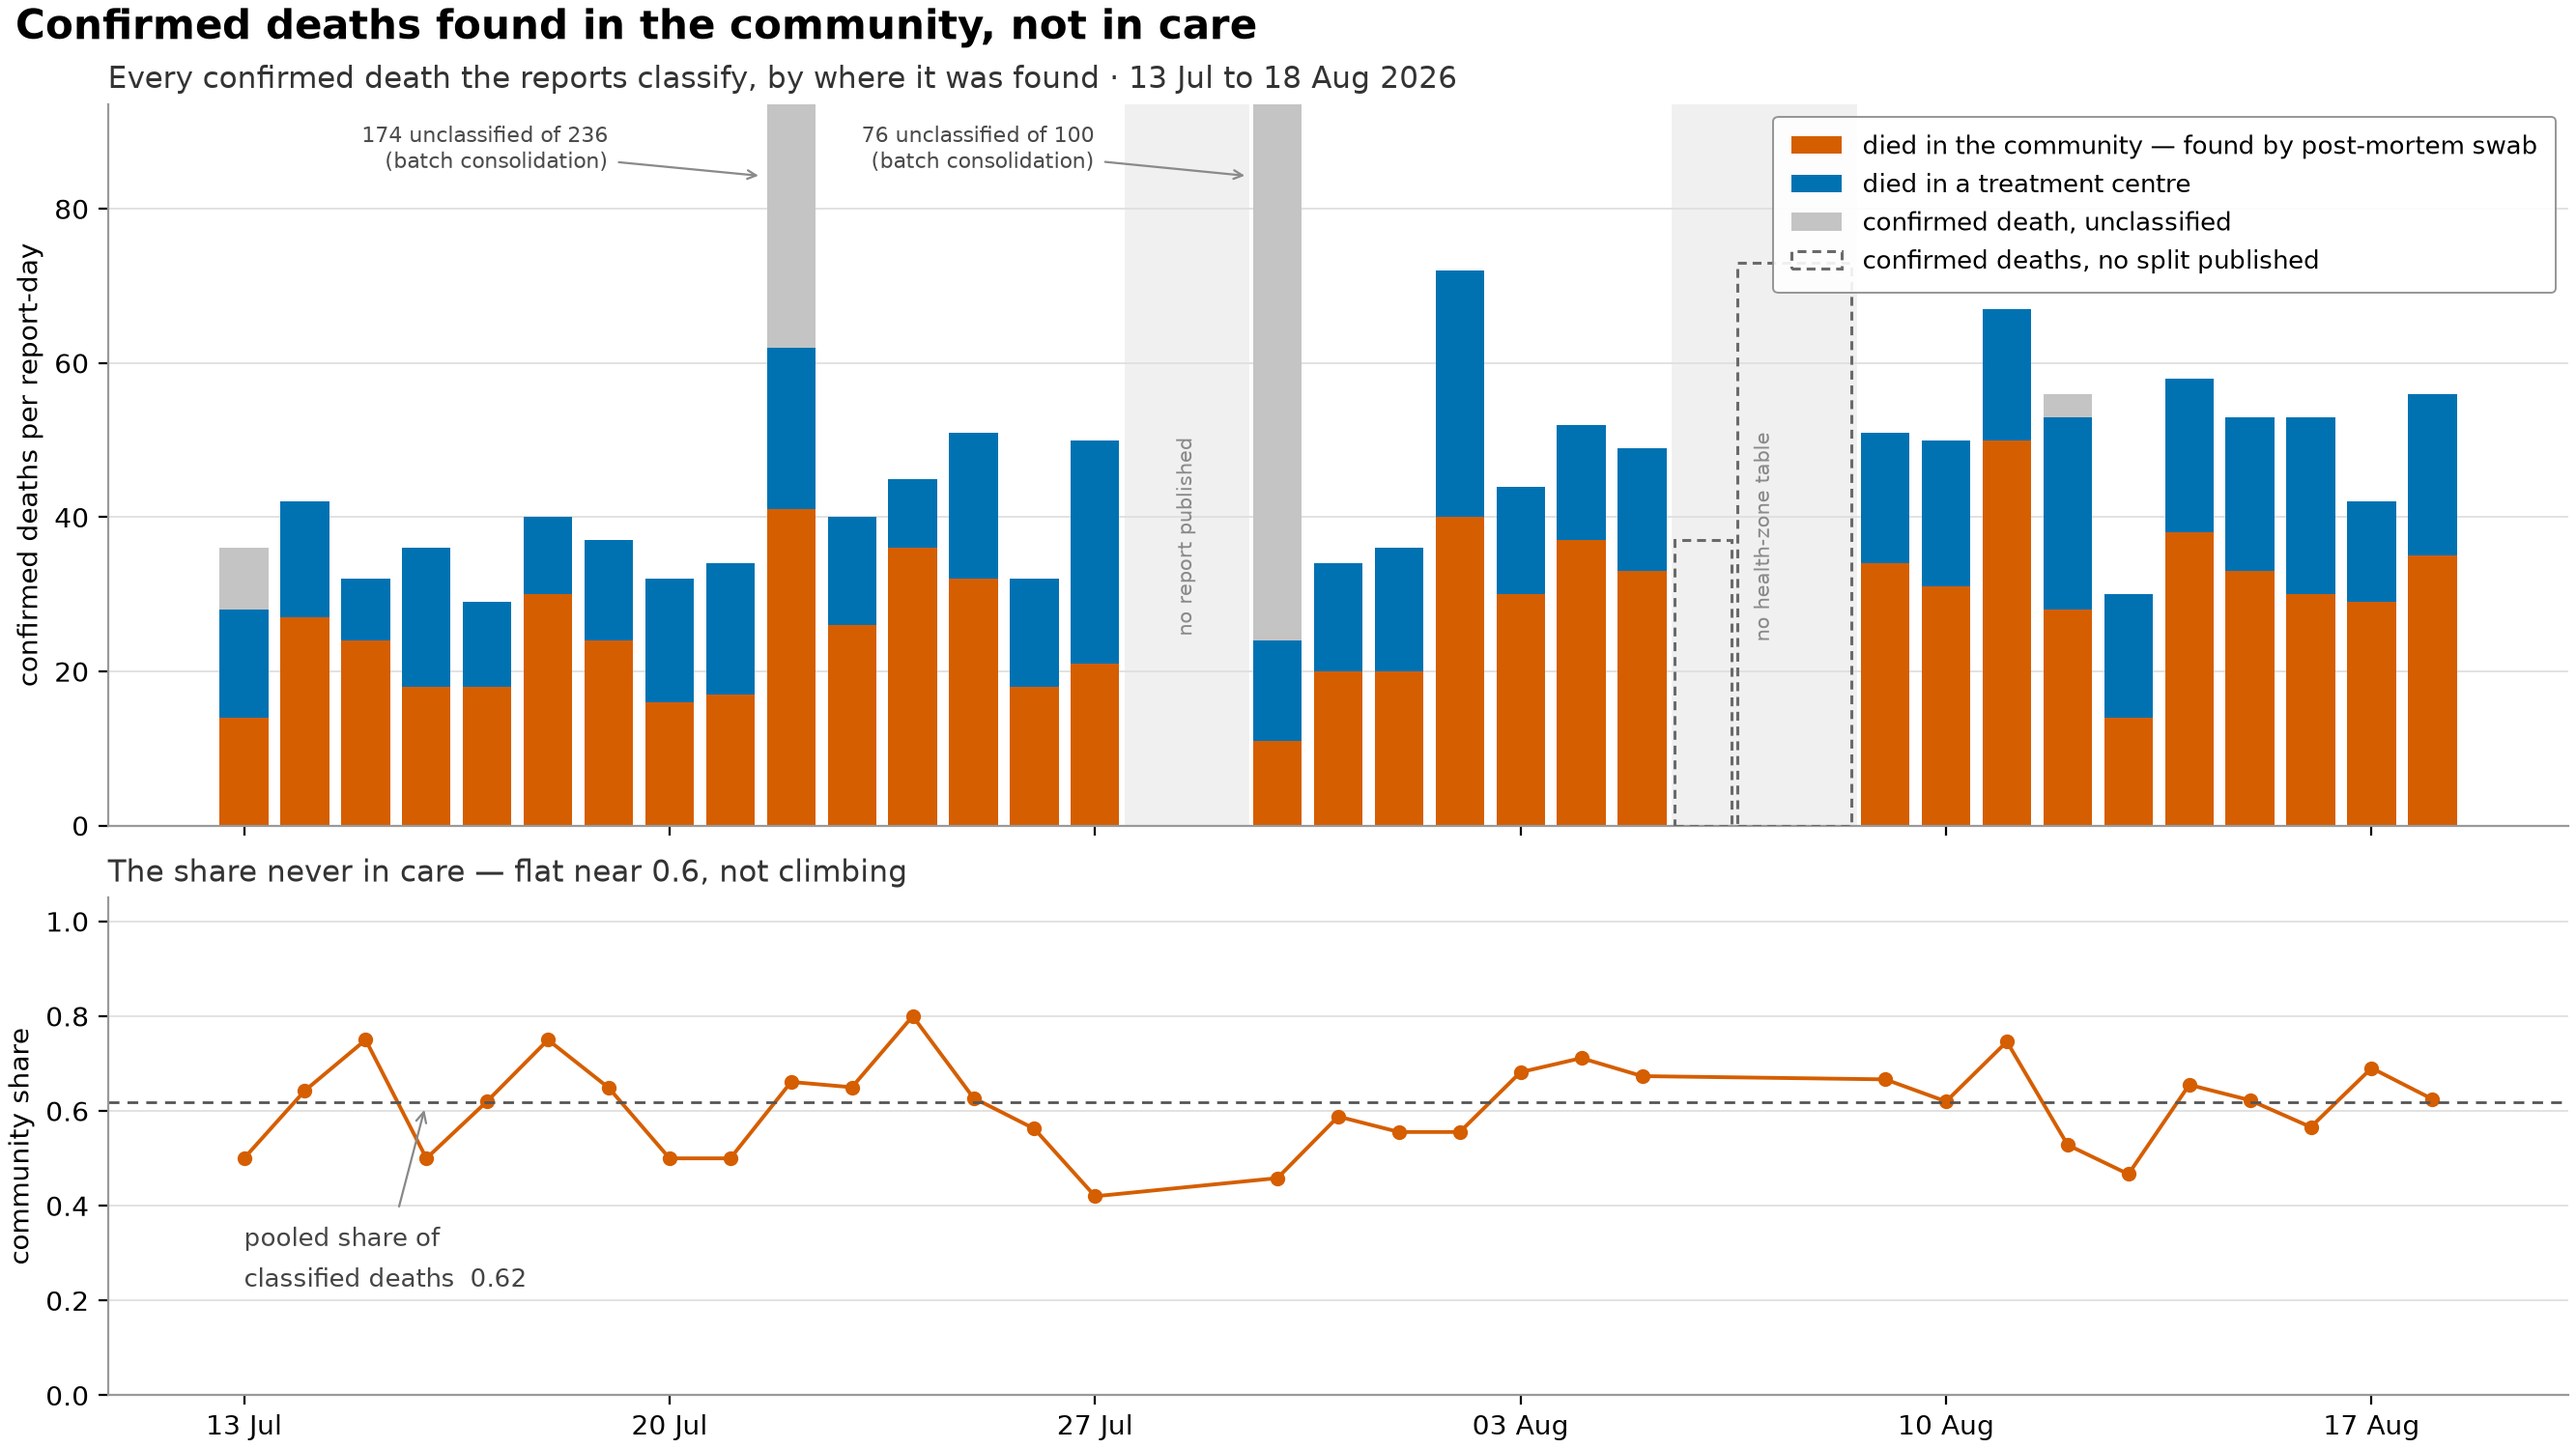
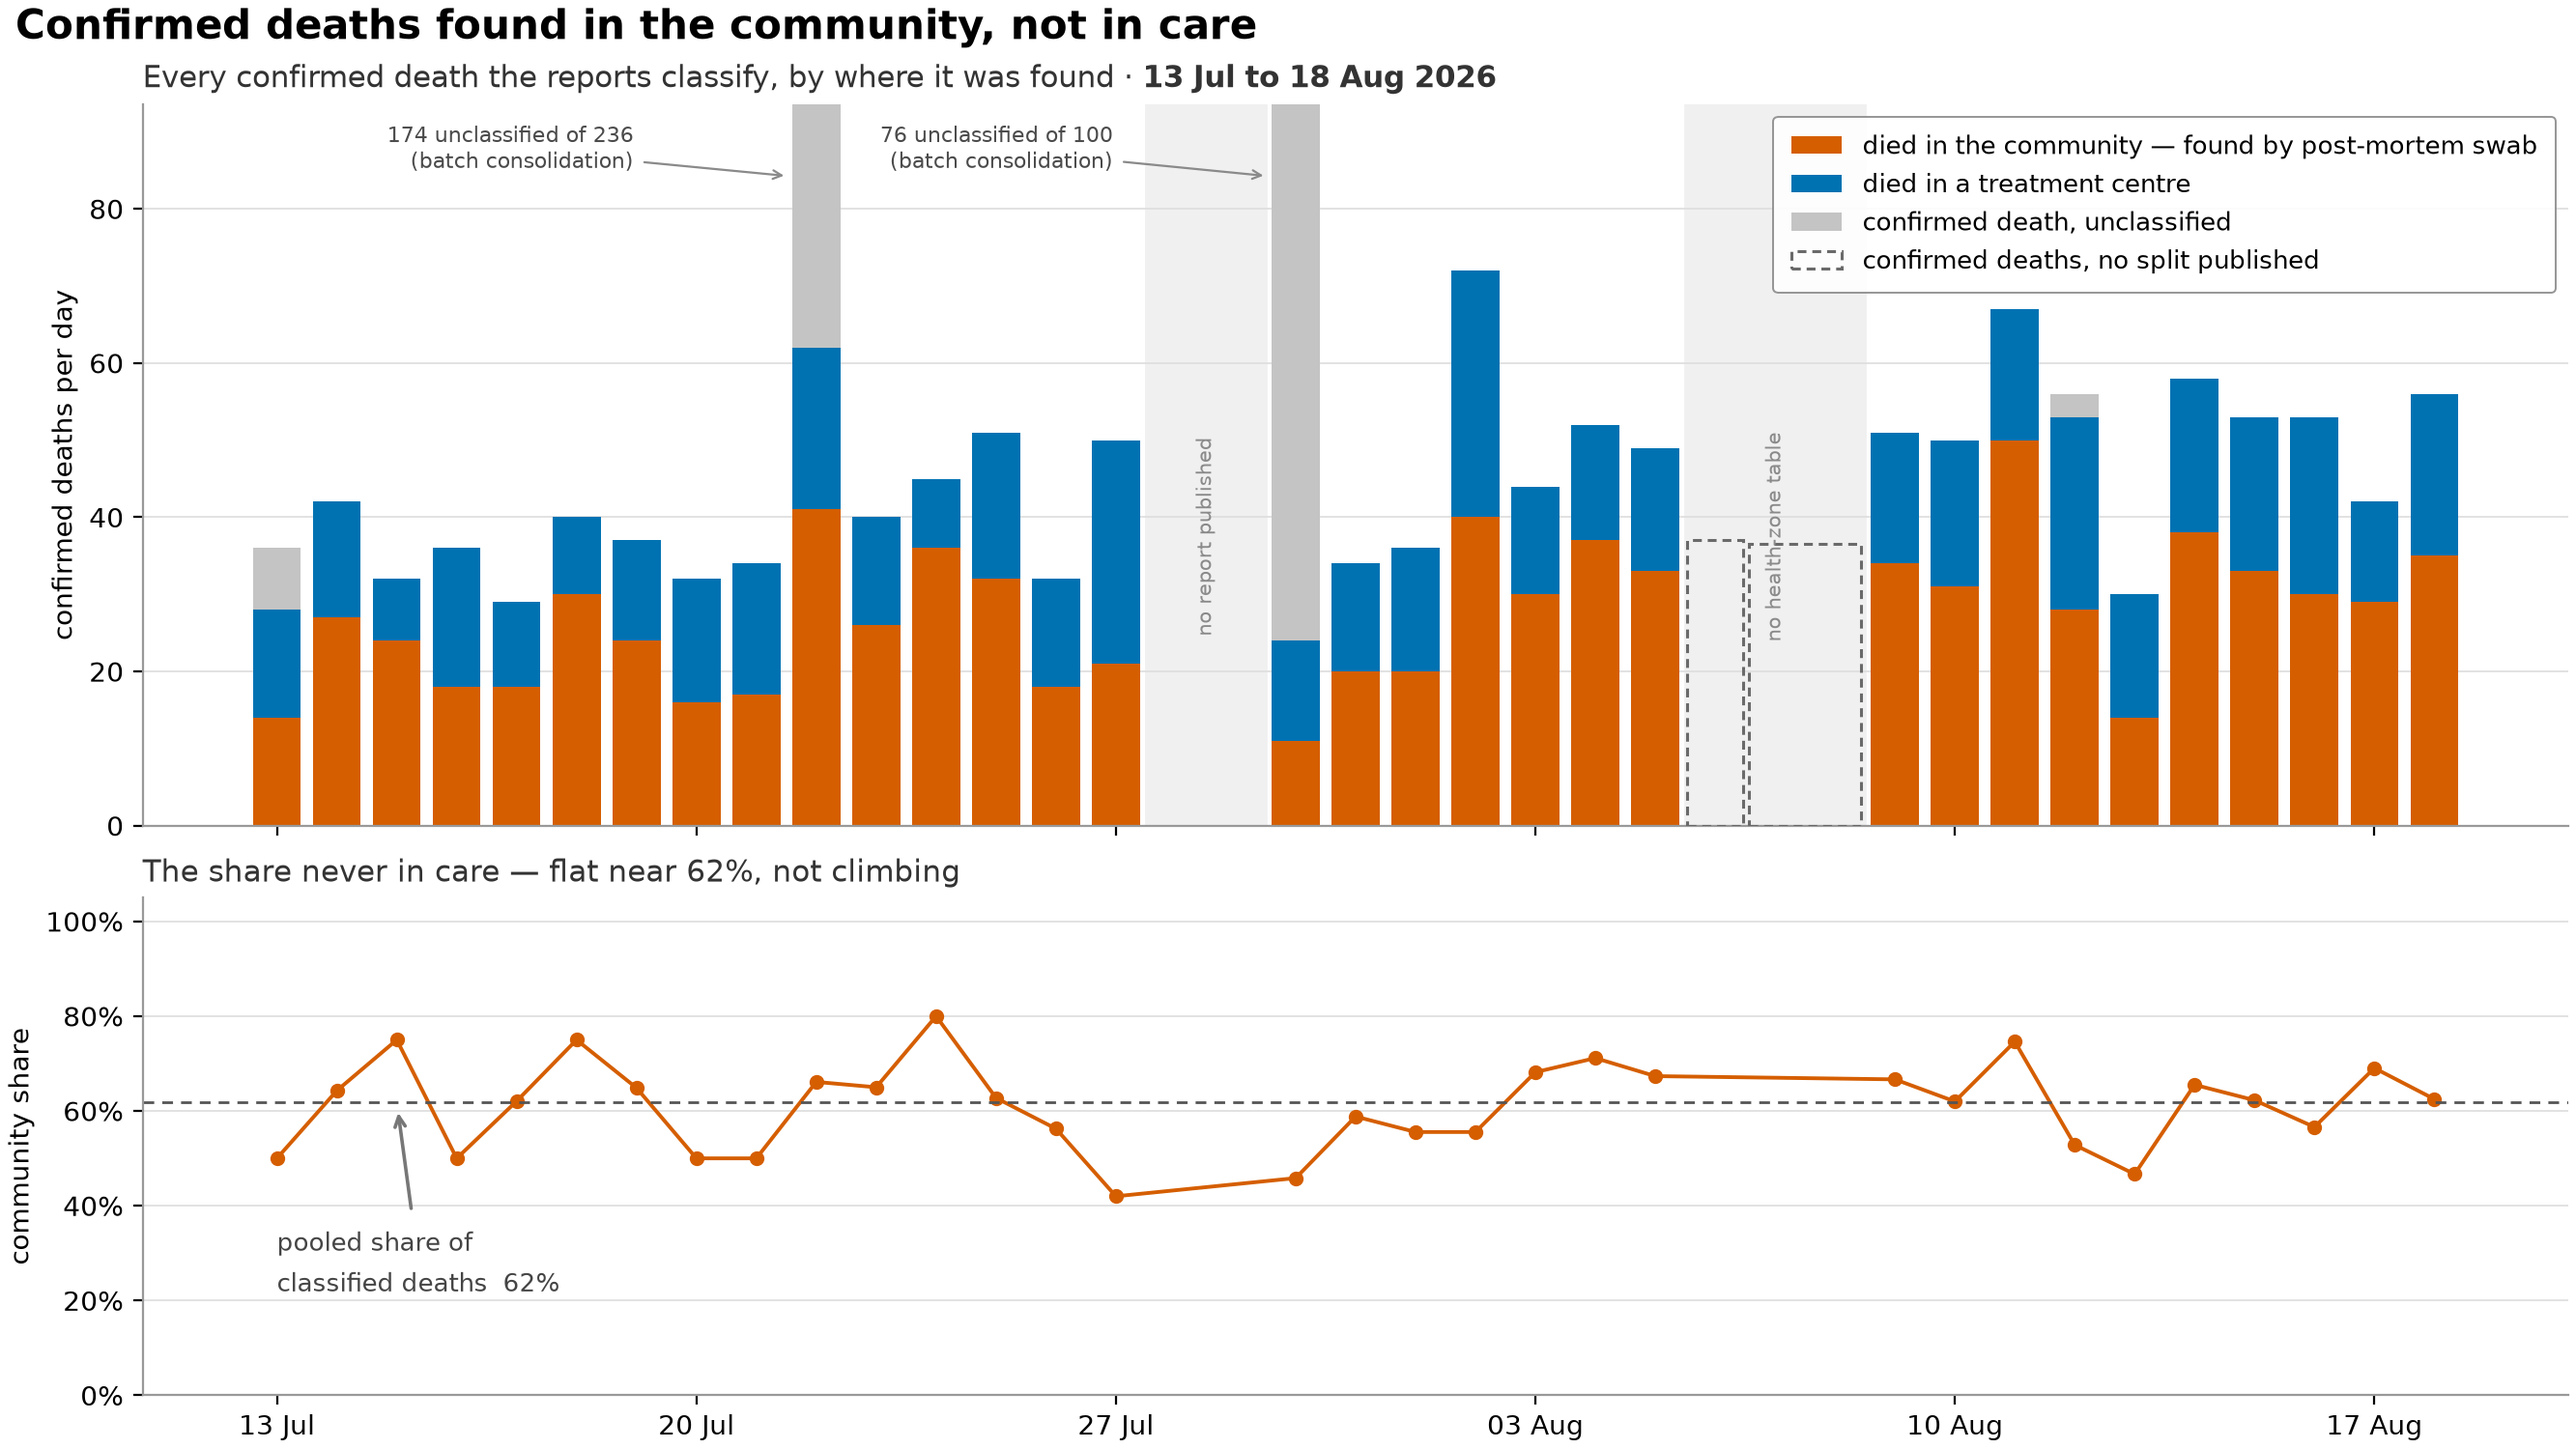
ascertainment: percentages, bold date, and DO NOT divide the split by days_covered
Shares are reported as percentages and the date range is bold.

The substantive change is a division that must NOT happen, found while
checking whether the two-day national total should be halved. It should --
deaths_daily_national is cumulative-differenced, so its days_covered is
genuine coverage and 73 over 2 days is drawn at half height and double width.

The classified split must NOT be divided the same way. It is flow-summed --
the report's own 24-hour figure -- so days_covered there records the gap
since the previous observation, not the span the count covers. Sitrep 089
(9 Aug) carries 51 classified deaths with days_covered = 4 against neighbours
of 50 to 67 in a single day; dividing by 4 would have drawn 13 and invented a
collapse in classification that did not happen.

This is the days_covered dual-meaning defect from
notes/2026-08-22-pipeline-audit.md (C3), now with a worked example of the
damage in the comment at the point of use.

Arrow to the pooled-share label is wider and anchored where the series sits
above the line, so it no longer cuts across the orange.

Claude-Session: https://claude.ai/code/session_015tkmBJ2UNKTmshByKopqW2

diff --git a/scripts/plot_figures.py b/scripts/plot_figures.py
@@ -482,18 +482,27 @@ def draw_ascertainment(inputs: dict[str, Path], out: Path) -> None:
          .join(deaths.select("time", "deaths_national"), on="time", how="left")
          .sort("time"))
 
+    # DO NOT DIVIDE THESE BY days_covered. The column means two different
+    # things across this repo's streams, and here it is the WRONG one. The
+    # split is flow-summed -- it is the report's own 24-hour figure -- so
+    # `days_covered` records the gap since the previous observation, not the
+    # span the count covers. Sitrep 089 (9 Aug) carries 51 classified deaths
+    # with days_covered = 4 while its neighbours run 50 to 67 in a single day;
+    # dividing by 4 would draw 13 and invent a collapse that did not happen.
+    # The national total below IS cumulative-differenced, so it divides. The
+    # asymmetry is real and it is the reason this comment exists.
     t = [mdates.date2num(x) for x in d["time"].to_list()]
-    comm = d["community_deaths_national"].to_list()
-    total = d["deaths_split_national"].to_list()
+    comm_n = comm = d["community_deaths_national"].to_list()
+    total_n = total = d["deaths_split_national"].to_list()
     etc = [a - b for a, b in zip(total, comm)]
     # Deaths counted as confirmed but never classified either way. Clamped at
     # zero: on three days the classified split EXCEEDS the day's cumulative
     # movement (2 Aug by 22, from sitrep 080, whose daily block is displaced
     # by one row), which is a source inconsistency, not a negative quantity.
     unclass = [max(0, (a or 0) - b)
-               for a, b in zip(d["deaths_national"].to_list(), total)]
-    share = [c / s for c, s in zip(comm, total)]
-    pooled = sum(comm) / sum(total)
+               for a, b in zip(d["deaths_national"].to_list(), total_n)]
+    share = [c / s for c, s in zip(comm_n, total_n)]
+    pooled = sum(comm_n) / sum(total_n)
 
 
     COMM, ETC = "#D55E00", "#0072B2"
@@ -527,9 +536,9 @@ def draw_ascertainment(inputs: dict[str, Path], out: Path) -> None:
         pl.col("time").is_between(d["time"].min(), d["time"].max())
         & ~pl.col("time").is_in(d["time"].to_list()))
     for r in unsplit.iter_rows(named=True):
-        span = max(1, int(r["days_covered"] or 1))
-        right = mdates.date2num(r["time"]) + 0.5
-        ax.bar(right - span / 2, r["deaths_national"], width=span * 0.94,
+        sp = max(1, int(r["days_covered"] or 1))
+        edge = mdates.date2num(r["time"]) + 0.5
+        ax.bar(edge - sp / 2, r["deaths_national"] / sp, width=sp * 0.94,
                facecolor="none", edgecolor="#6a6a6a", linewidth=1.1,
                linestyle=(0, (3, 2)), zorder=3,
                label="_" if r["time"] != unsplit["time"][0]
@@ -571,7 +580,7 @@ def draw_ascertainment(inputs: dict[str, Path], out: Path) -> None:
 
     ax.set_ylim(0, top)
     ax.set_axisbelow(True)          # gridlines behind the bars, not through them
-    ax.set_ylabel("confirmed deaths per report-day", fontsize=10)
+    ax.set_ylabel("confirmed deaths per day", fontsize=10)
     # upper right: the two clipped bars sit centre-left. A translucent white
     # box so the entries stay legible where they cross gridlines and bars.
     leg = ax.legend(loc="upper right", fontsize=9.5, frameon=True, framealpha=0.9,
@@ -582,16 +591,19 @@ def draw_ascertainment(inputs: dict[str, Path], out: Path) -> None:
     sh.plot(t, share, marker="o", markersize=4.5, linewidth=1.4, color=COMM)
     sh.axhline(pooled, color="#555555", linewidth=1.0, linestyle=(0, (4, 3)))
     # text starts at the left edge of the series and points up to the line
-    sh.annotate(f"pooled share of\nclassified deaths  {pooled:.2f}",
-                xy=(t[3], pooled), xytext=(t[0], 0.29),
+    sh.annotate(f"pooled share of\nclassified deaths  {pooled:.0%}",
+                xy=(t[2], pooled), xytext=(t[0], 0.28),
                 textcoords="data", ha="left", va="center",
                 fontsize=9.5, color="#444444", linespacing=1.5,
-                arrowprops=dict(arrowstyle="->", color="#888888",
-                                linewidth=0.8, shrinkA=3, shrinkB=3))
+                arrowprops=dict(arrowstyle="->", color="#777777",
+                                linewidth=1.3, shrinkA=4, shrinkB=4))
     sh.set_axisbelow(True)
     sh.set_ylim(0, 1.05)
+    sh.set_yticks([0, 0.2, 0.4, 0.6, 0.8, 1.0])
+    sh.set_yticklabels([f"{v:.0%}" for v in (0, .2, .4, .6, .8, 1.0)])
     sh.set_ylabel("community share", fontsize=10)
-    sh.set_title("The share never in care — flat near 0.6, not climbing",
+    sh.set_title(f"The share never in care — flat near {pooled:.0%}, "
+                 "not climbing",
                  loc="left", fontsize=11, color="#333333")
     sh.grid(axis="y", **GRID)
     sh.xaxis.set_major_locator(mdates.WeekdayLocator(byweekday=mdates.MO))
@@ -603,11 +615,13 @@ def draw_ascertainment(inputs: dict[str, Path], out: Path) -> None:
         a.spines["left"].set_color("#999999")
         a.spines["bottom"].set_color("#999999")
 
-    span = f"{d['time'].min():%d %b} to {d['time'].max():%d %b %Y}"
+    bold_span = (f"{d['time'].min():%d\\ %b}\\ to\\ "
+                 f"{d['time'].max():%d\\ %b\\ %Y}")
     fig.suptitle("Confirmed deaths found in the community, not in care",
                  x=0.006, ha="left", fontsize=15, fontweight="bold")
     ax.set_title("Every confirmed death the reports classify, by where it was "
-                 f"found · {span}", loc="left", fontsize=11, color="#333333")
+                 f"found · $\\bf{{{bold_span}}}$",
+                 loc="left", fontsize=11, color="#333333")
     out.parent.mkdir(parents=True, exist_ok=True)
     fig.savefig(out, dpi=200)
     plt.close(fig)
